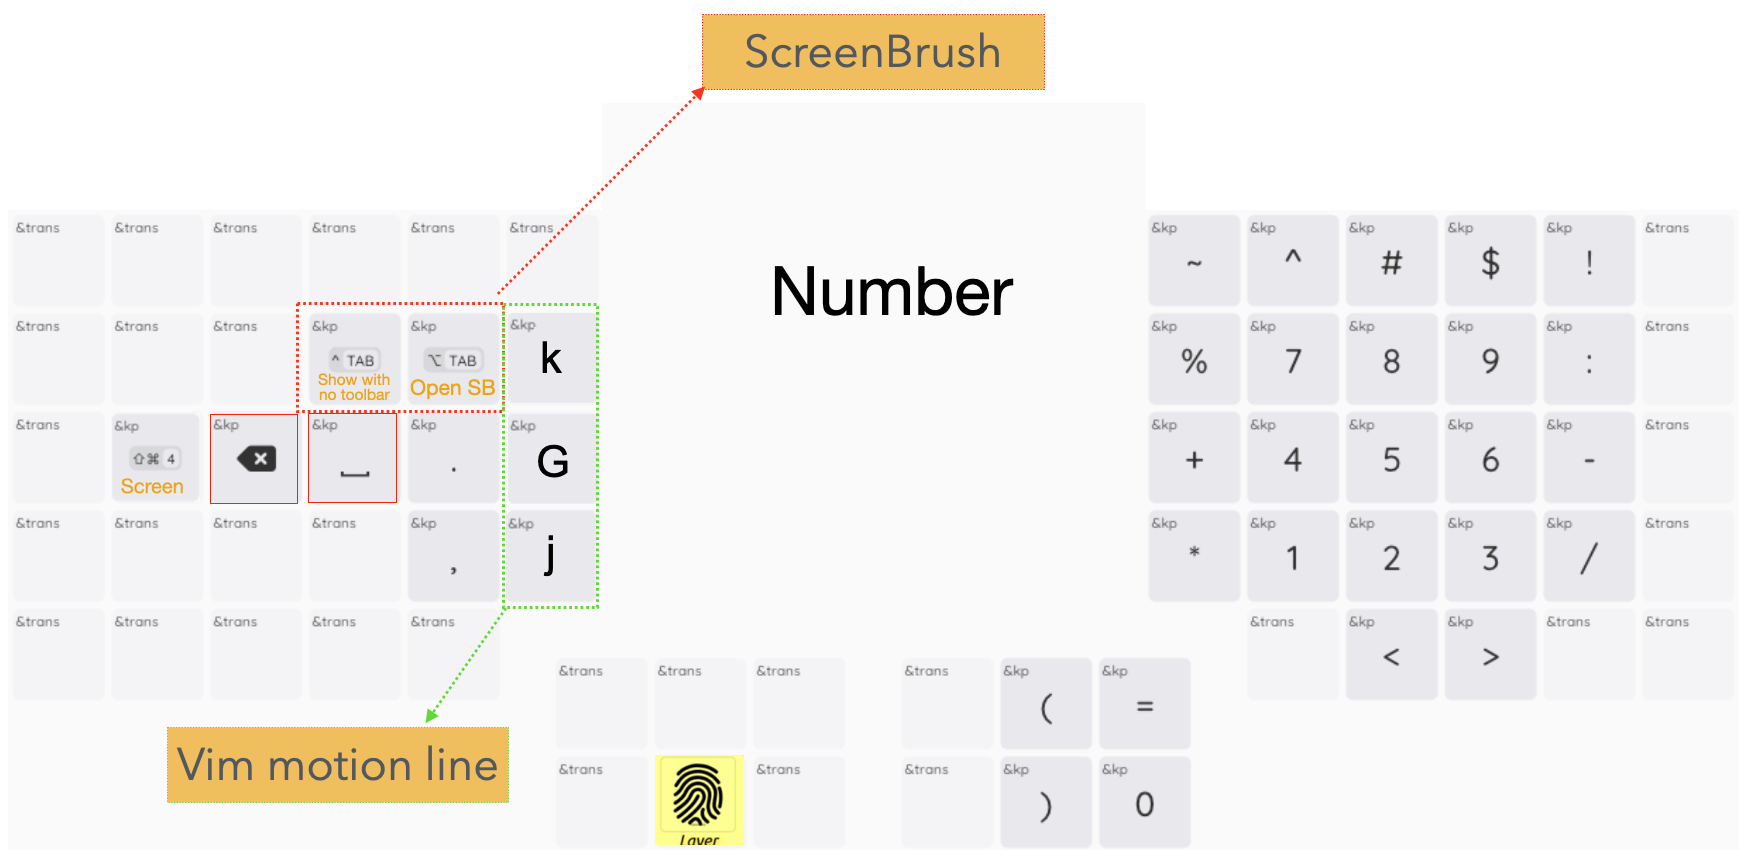
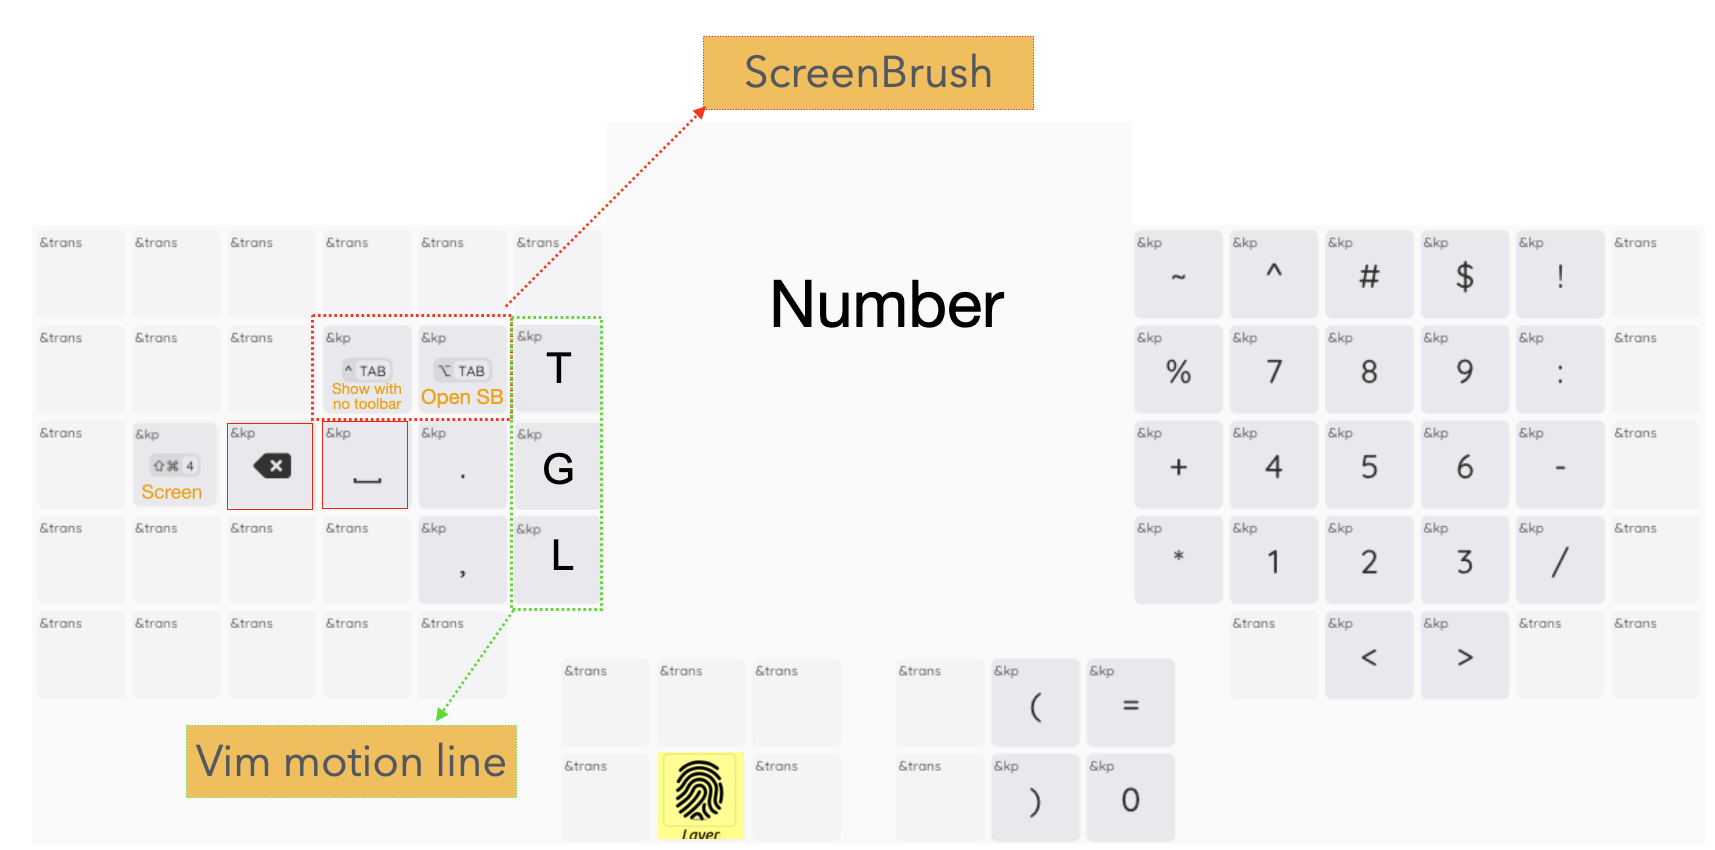
Testing enthium (#31)
* Change ' apostrophe to ; in qwerty and add ; to Symbol layer

* testing Enthium layout

* Fix CI

* CI OK, test new macco

* Fix CI

* CI OK, add maccro to layout

* Remove home row to practice

* optimise enthium layout for French

* Change F and X, fix à

* Fix ç and à

* Back to opti french

* Change X -> F

* Add ç

* Add à

* Optimize French

* Fix é

* R have no mod to train

* Optimize for French with 'oe.' in middle finger

* W in left part on left hand

* Switch G & H

* Layer with HMR

* Add layer world for ent

* Change in ZMK version fix

* Try to fix CI

* Try to fix CI

* WIP on word layer enth

* Delete legacy word key in World layer enth

* Enth layer now first to have billatéral HMR

* Update bilatéral letter for enth

* Fix CI

* Update symbol layer with invert hand ',.' '|-'

* invert è <-> W

* Win layer now on Enth

* update BT QWERTY -> Enth

* Add combo for delete and tab

* Fix CI

* Fix CI

* Fix CI

* Change UP / DOWN in number layer for vim

* Fix up

* Remove old combo for à, ç, è

* minus easely reach, del tab

* Combo pour la suppression de mot sur mac et win

* Fix

* Delete maccro to fix delete word combo

* Delete maccro to fix delete word combo

* forget all combo keys

* fix layer combo

* Fix combo

* combo delete end of line

* Fix key position

* Fix combot delete end of line

* Delete qwerty layout

* Update readme with new layout and comparaison

* small update readme

---------

diff --git a/README.md b/README.md
@@ -5,7 +5,7 @@ Wireless Cyboard keyboard configuration repository template for using ZMK firmwa
 ## Main Features of `imprint.keymap`
 
 - **Layer System:**  
-  Multiple layers for custom QWERTY, symbols, numbers, navigation, mouse, and system controls.  
+  Multiple layers for custom layout, symbols, numbers, navigation, mouse, and system controls.  
   Temporary layers (e.g., cursor, symbol, number) can be accessed from any main layer.
 
 - **Home Row Mods:**  
@@ -25,6 +25,14 @@ Wireless Cyboard keyboard configuration repository template for using ZMK firmwa
   Bluetooth slot selection automatically activates the corresponding OS layer (e.g., slot 0 for Mac, slot 1 for Windows).
 
 
+## Layout
+
+Custom layout inspired by [Sunaku’s enthium](https://github.com/sunaku/enthium) and adapted for French language (but still good for English too!) named `Enthium FR`.
+
+Comparaison on [cyanophage](https://cyanophage.github.io/) between default AZERTY layout and this custom layout:
+
+![AZERTY vs Enthium FR](images/azerty_vs_enthiumFr.png)
+
 ## Inspiration
 
 This configuration is inspired by [Sunaku](https://sunaku.github.io/index.html#moergo-glove80-keyboard)’s keyboard layouts and design philosophy on the Glove80 keyboard <3.
@@ -36,7 +44,7 @@ Special thanks to the `Glove80` and the Cyboard `Imprint` community for their su
 
 ## Layers Overview
 
-![Qwerty](images/layer_qwerty.png)
+![Enthium FR](images/layer_enthium_fr.png)
 ![Cursor](images/layer_cursor.png)
 ![Number](images/layer_number.png)
 ![Fonction](images/layer_fonction.png)
